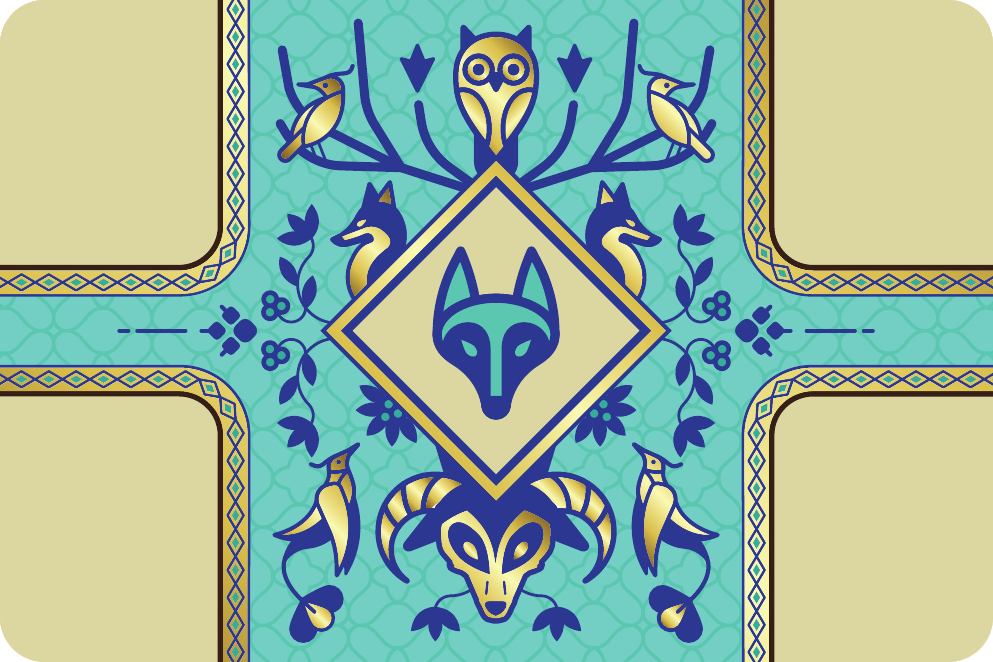
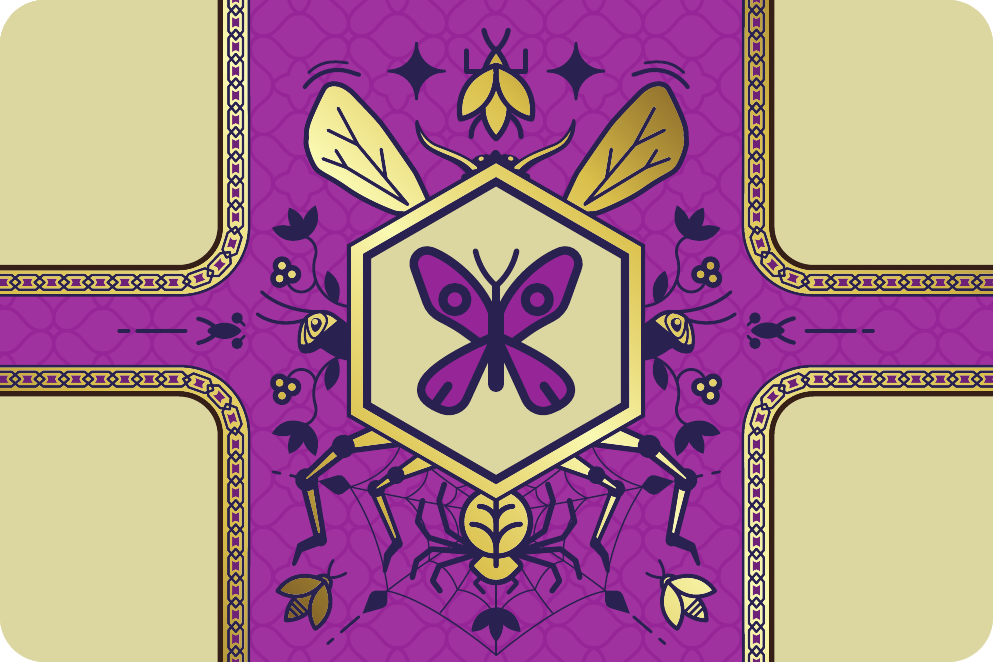
CLI bugfix and updated pngs for GUI

diff --git a/src/main/java/it/polimi/ingsw/view/cli/scene/SceneManager.java b/src/main/java/it/polimi/ingsw/view/cli/scene/SceneManager.java
@@ -2,6 +2,7 @@ package it.polimi.ingsw.view.cli.scene;
 
 import static org.fusesource.jansi.Ansi.ansi;
 
+import java.util.Arrays;
 import java.util.HashMap;
 import java.util.Map;
 import java.util.concurrent.atomic.AtomicBoolean;
@@ -139,10 +140,11 @@ public class SceneManager {
             this.currentScene.availableCommands();
         } else if (args[0].equalsIgnoreCase("quit")) {
             this.isRunning.set(false);
+            System.exit(0);
         } else if (cli.inGame.get() && args[0].equalsIgnoreCase("dm")) {
             // Handle direct message
 
-            if (args.length != 3) {
+            if (args.length < 3) {
                 CLIPrinter.displayError("Invalid formatting for send direct message command");
                 return;
             }
@@ -166,26 +168,18 @@ public class SceneManager {
                 return;
             }
 
-            if (args[2].isEmpty()) {
-                CLIPrinter.displayError("Can't send an empty message");
-                return;
-            }
-
-            cli.getConnectionHandler().sendToGameServer(new DirectMessageCommand(cli.getUserInfo(), receiver, args[2]));
+            cli.getConnectionHandler().sendToGameServer(new DirectMessageCommand(cli.getUserInfo(), receiver,
+                    String.join(" ", Arrays.copyOfRange(args, 2, args.length))));
         } else if (cli.inGame.get() && args[0].equalsIgnoreCase("gm")) {
             // Handle group message
 
-            if (args.length != 2) {
+            if (args.length < 2) {
                 CLIPrinter.displayError("Invalid formatting for send group message command");
                 return;
             }
 
-            if (args[1].isEmpty()) {
-                CLIPrinter.displayError("Can't send an empty message");
-                return;
-            }
-
-            cli.getConnectionHandler().sendToGameServer(new GroupMessageCommand(cli.getUserInfo(), args[1]));
+            cli.getConnectionHandler().sendToGameServer(new GroupMessageCommand(cli.getUserInfo(),
+                    String.join(" ", Arrays.copyOfRange(args, 1, args.length))));
         } else if (cli.inGame.get() && args[0].equalsIgnoreCase("printgm")) {
             if (args.length != 1) {
                 CLIPrinter.displayError("Too many arguments");
@@ -220,7 +214,7 @@ public class SceneManager {
             }
 
             System.out.println("Messages with " + other);
-            cli.getGroupMessages().stream().forEach(p -> System.out.println(p.first + ": " + p.second));
+            cli.getDirectMessages(other).stream().forEach(p -> System.out.println(p.first + ": " + p.second));
         } else {
             this.currentScene.handleCommand(args);
         }

diff --git a/src/main/java/it/polimi/ingsw/view/cli/CLI.java b/src/main/java/it/polimi/ingsw/view/cli/CLI.java
@@ -4,6 +4,7 @@ import static org.fusesource.jansi.Ansi.ansi;
 
 import java.util.ArrayList;
 import java.util.Arrays;
+import java.util.Collections;
 import java.util.HashMap;
 import java.util.List;
 import java.util.Map;
@@ -226,7 +227,7 @@ public class CLI implements UI {
      * List with direct messages saved as a pair with the sender of the direct
      * message and the message itself
      */
-    private List<Pair<UserInfo, String>> directMessages = new ArrayList<>();
+    private Map<UserInfo, List<Pair<UserInfo, String>>> directMessages = new HashMap<>();
 
     /**
      * Direct messages object for synchronization
@@ -387,11 +388,14 @@ public class CLI implements UI {
     /**
      * Direct messages getter
      * 
+     * @param userInfo the other user of the private chat
+     * 
      * @return a copy of the list of direct messages
      */
-    public List<Pair<UserInfo, String>> getDirectMessages() {
+    public List<Pair<UserInfo, String>> getDirectMessages(UserInfo userInfo) {
         synchronized (directMessagesLock) {
-            return new ArrayList<>(directMessages);
+            return directMessages.containsKey(userInfo) ? new ArrayList<>(directMessages.get(userInfo))
+                    : new ArrayList<>();
         }
     }
 
@@ -790,8 +794,14 @@ public class CLI implements UI {
             resetPrompt();
         }
 
+        UserInfo other = sender.equals(getUserInfo()) ? receiver : sender;
+        Pair<UserInfo, String> messageToSave = new Pair<UserInfo, String>(sender, message);
+
         synchronized (directMessagesLock) {
-            directMessages.add(new Pair<UserInfo, String>(sender, message));
+            if (directMessages.containsKey(other))
+                directMessages.get(other).add(messageToSave);
+            else
+                directMessages.put(other, new ArrayList<>(Collections.singletonList(messageToSave)));
         }
     }
 

diff --git a/src/main/java/it/polimi/ingsw/view/cli/scene/scenes/ResultsScene.java b/src/main/java/it/polimi/ingsw/view/cli/scene/scenes/ResultsScene.java
@@ -19,12 +19,12 @@ public class ResultsScene extends Scene {
     public ResultsScene(SceneManager sceneManager) {
         super(sceneManager);
         this.commands = Arrays.asList(
-                new CLICommand("x", "to quit", () -> {
+                new CLICommand("x", "to go back to the main menu", () -> {
                     if (args.length != 1)
                         CLIPrinter.displayError("Invalid command");
-
-                    sceneManager.isRunning.set(false);
-                    System.exit(0);
+                    sceneManager.transition(LobbiesScene.class);
+                    // sceneManager.isRunning.set(false);
+                    // System.exit(0);
                 }));
     }
 

diff --git a/src/main/java/it/polimi/ingsw/model/ScoreTrack.java b/src/main/java/it/polimi/ingsw/model/ScoreTrack.java
@@ -25,7 +25,7 @@ public class ScoreTrack extends Observable {
   /**
    * When a player reaches limitScore, last turn of the game starts
    */
-  private final int limitScore = 1;
+  private final int limitScore = 20;
 
   /**
    * @param scores initial scores of the players (all zero)
